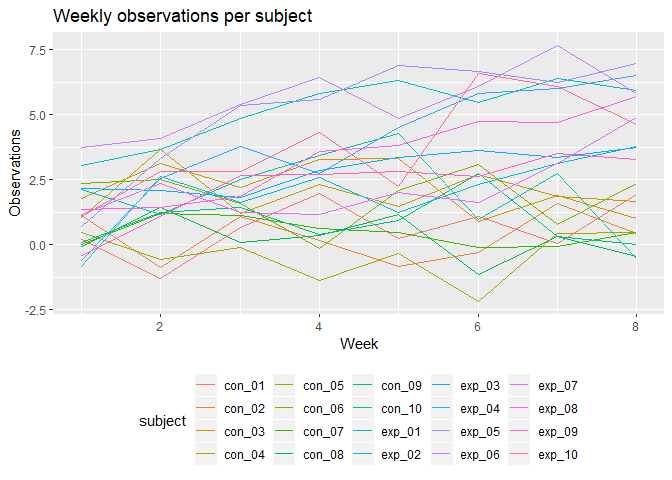
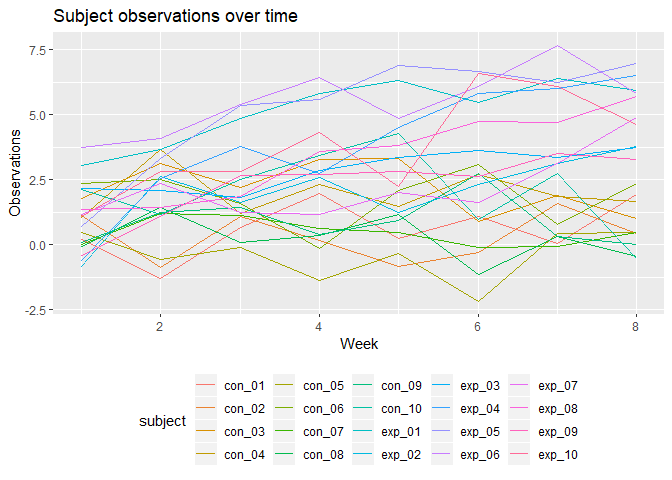
This is an updated commit with an overlay plot for Problem 3.

Changed region(s): [[0.0625, 0.0, 0.4688, 0.0625]]

diff --git a/p8105_hw5_mss2284.md b/p8105_hw5_mss2284.md
@@ -7,14 +7,14 @@ Maya Spaur
 library(tidyverse)
 ```
 
-    ## -- Attaching packages ----------------------------- tidyverse 1.2.1 --
+    ## -- Attaching packages --------------------------------------- tidyverse 1.2.1 --
 
     ## v ggplot2 3.2.1     v purrr   0.3.3
     ## v tibble  2.1.3     v dplyr   0.8.3
     ## v tidyr   1.0.0     v stringr 1.4.0
     ## v readr   1.3.1     v forcats 0.4.0
 
-    ## -- Conflicts -------------------------------- tidyverse_conflicts() --
+    ## -- Conflicts ------------------------------------------ tidyverse_conflicts() --
     ## x dplyr::filter() masks stats::filter()
     ## x dplyr::lag()    masks stats::lag()
 
@@ -171,7 +171,7 @@ spaghetti_plot =
   study_data %>%
   ggplot(aes(x = as.numeric(week), y = observations, color = subject)) +
   geom_line() +
-  labs(title = "Weekly observations per subject", x = "Week", y = "Observations") + theme(legend.position="bottom")
+  labs(title = "Subject observations over time", x = "Week", y = "Observations") + theme(legend.position="bottom")
 
 spaghetti_plot 
 ```
@@ -265,49 +265,39 @@ Fig_3
 
 The sample average of Beta1 across tests for which the null is rejected
 is not approximately equal to the true value of Beta1, as seen by the
-difference in y axes. As demonstrated in the tables below, the null was
-rejected with higher proportions for beta = 5 and 6. This may have led
-to a difference in the sample average.
+overlay plot below. The sample average of beta1 across tests for which
+the null is rejected is greater than the true value of beta1, and
+greater than the sample average overall (including the tests where the
+null was not rejected).
 
 ``` r
-table_1 = 
+overall = 
   sim_results %>%
   group_by(beta1) %>%
-  summarize(n = n(),
-            prop_sig = sum(p.value < .05)/n()*100) %>%
-  knitr::kable()
-
-table_1
-```
-
-| beta1 |     n | prop\_sig |
-| ----: | ----: | --------: |
-|     0 | 20000 |     5.410 |
-|     1 | 20000 |     5.315 |
-|     2 | 20000 |     5.495 |
-|     3 | 20000 |     5.855 |
-|     4 | 20000 |     5.960 |
-|     5 | 20000 |     6.935 |
-|     6 | 20000 |     7.535 |
-
-``` r
-table_2 = 
+  mutate(average_estimate = mean(estimate),
+         id = "overall")
+  
+significant = 
   sim_results %>%
   filter(p.value < .05) %>%
   group_by(beta1) %>%
-  summarize(n = n(),
-            prop_sig = sum(p.value < .05)/n()*100) %>%
-  knitr::kable()
+  mutate(average_estimate = mean(estimate),
+         id = "significant")
 
-table_2
+overlay_table = rbind(overall, significant) %>%
+  ggplot(aes(x = beta1, y = average_estimate, color = id)) + geom_point() + geom_line() + labs(x = "Beta1", y = "Mean Estimate Beta1", title = "Avg estimate Beta1 overall vs. significant samples") + theme_minimal()
+
+overlay_table
 ```
 
-| beta1 |    n | prop\_sig |
-| ----: | ---: | --------: |
-|     0 | 1082 |       100 |
-|     1 | 1063 |       100 |
-|     2 | 1099 |       100 |
-|     3 | 1171 |       100 |
-|     4 | 1192 |       100 |
-|     5 | 1387 |       100 |
-|     6 | 1507 |       100 |
+![](p8105_hw5_mss2284_files/figure-gfm/unnamed-chunk-8-1.png)<!-- -->
+
+As demonstrated in the figure above, “Proportion of times null
+rejected”, the null was rejected with higher proportions for higher
+values of Beta1, greater than 3. This may have led to a difference in
+the sample average. With significant p values, you are rejecting the
+null hypothesis that Beta1 = 0, that the mean estimated Beta1 is not
+equal to the true Beta1. For higher true values of Beta1, the mean
+estimated Beta1 values that have p values \< 0.05 are farther away from
+0 and drive the difference between the overall and significant average
+estimates.
